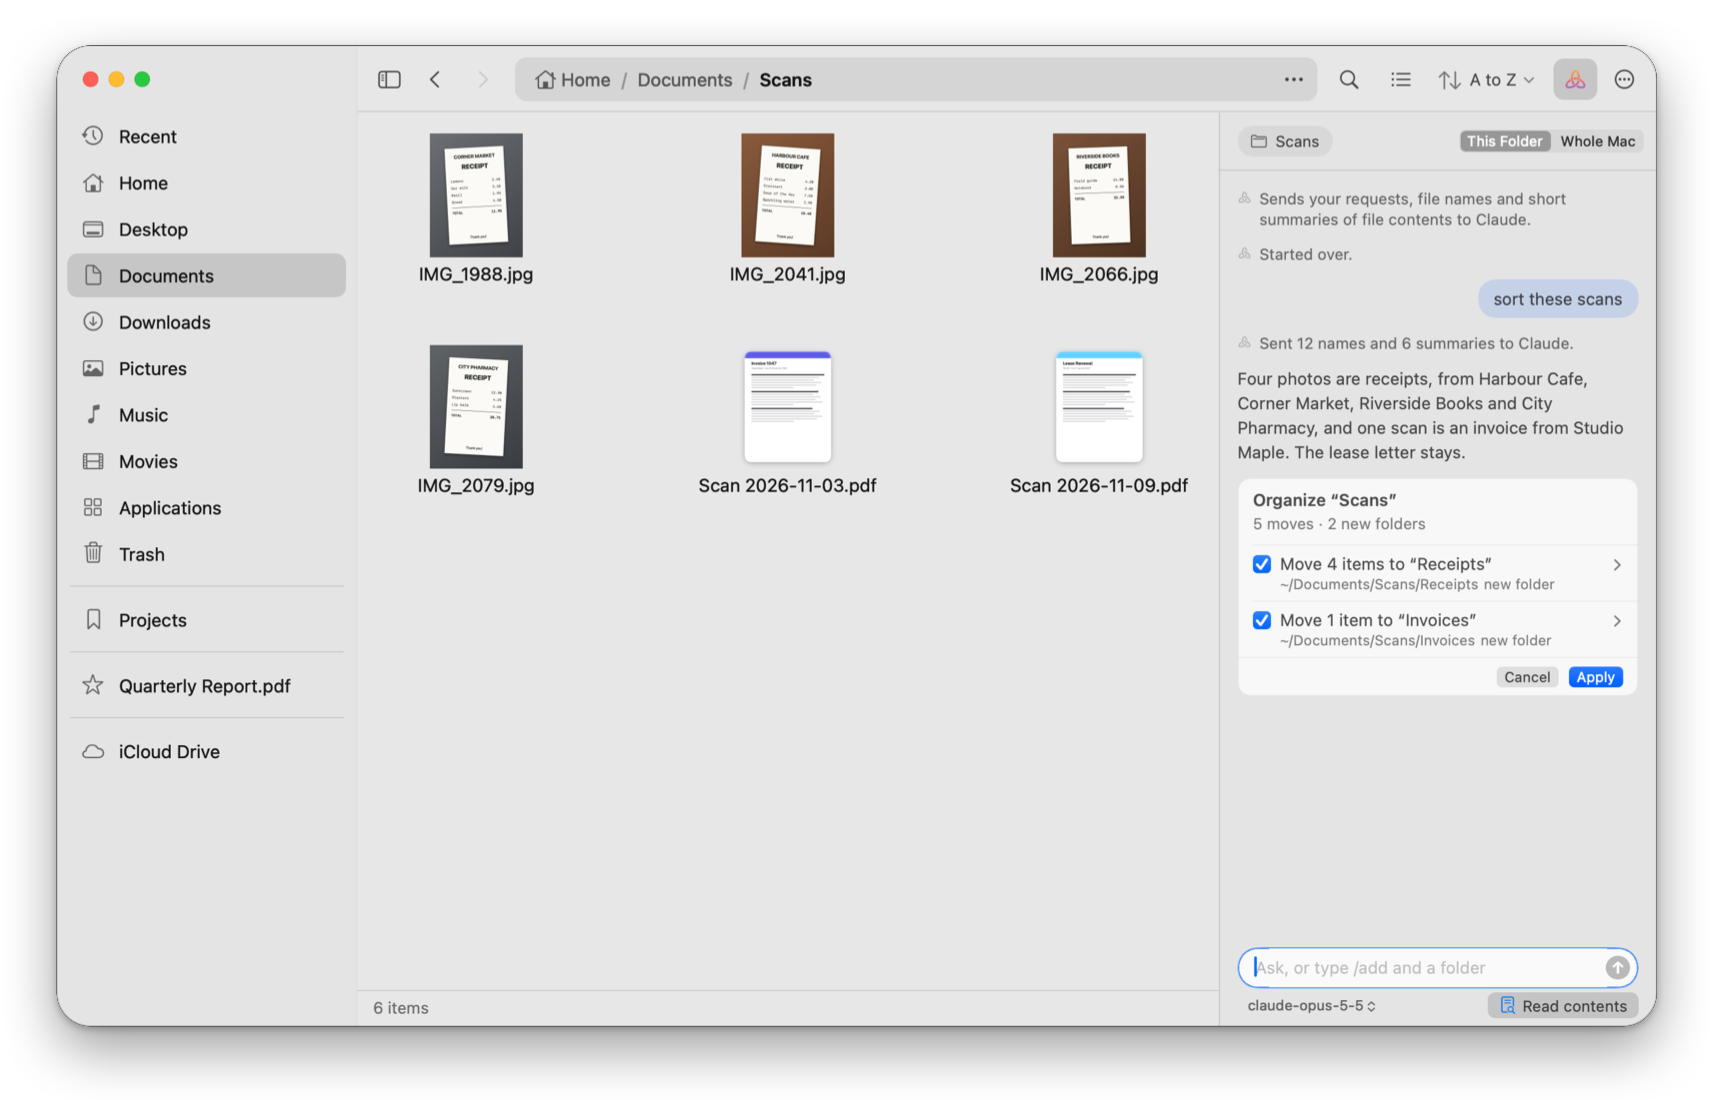
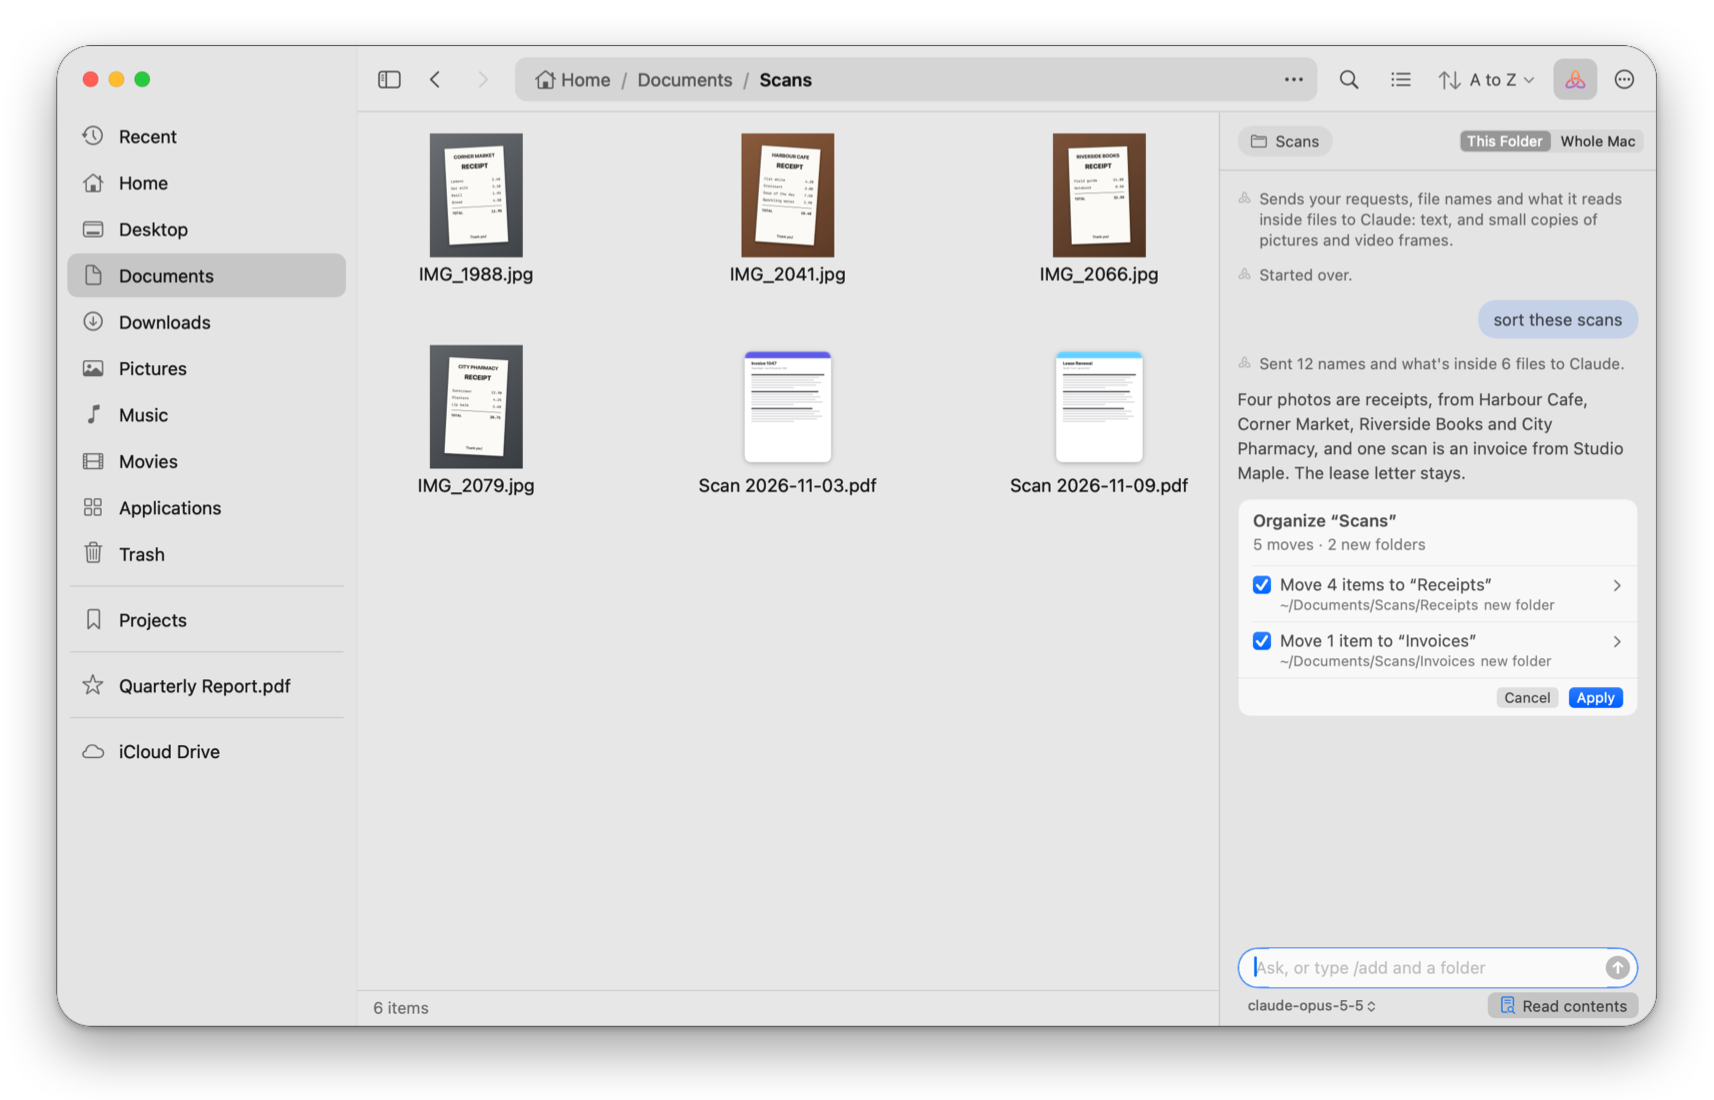
README: AI search finds the receipts from places to eat by what the model sees, and the pictures show the new consent lines and the kind row

Changed region(s): [[0.7112, 0.2473, 0.9586, 0.6491], [0.7112, 0.1545, 0.9586, 0.2782]]

diff --git a/README.md b/README.md
@@ -50,18 +50,18 @@ Names don't always say what a file is. Turn on **Read contents** under the compo
 
 <picture>
   <source media="(prefers-color-scheme: dark)" srcset="docs/images/ai-contents-dark.png">
-  <img src="docs/images/ai-contents-light.png" alt="Documents › Scans in the grid: four receipt photos named IMG_1988.jpg, IMG_2041.jpg, IMG_2066.jpg and IMG_2079.jpg, and two scanned PDFs. In the AI panel Read contents is on, and the first line says it sends your requests, file names and short summaries of file contents to Claude. After Sent 12 names and 6 summaries to Claude, the reply names the four receipts and the invoice, and the plan moves 4 items to a new Receipts folder and 1 to a new Invoices folder">
+  <img src="docs/images/ai-contents-light.png" alt="Documents › Scans in the grid: four receipt photos named IMG_1988.jpg, IMG_2041.jpg, IMG_2066.jpg and IMG_2079.jpg, and two scanned PDFs. In the AI panel Read contents is on, and the first line says it sends your requests, file names and what it reads inside files to Claude: text, and small copies of pictures and video frames. After Sent 12 names and what's inside 6 files to Claude, the reply names the four receipts and the invoice, and the plan moves 4 items to a new Receipts folder and 1 to a new Invoices folder">
 </picture>
 
 ### Find with AI
 
 Turn on the trefoil in the search field and describe the file. The model plans the searches, Helm runs them on your Mac, and the status bar says how it read your words. Point at a result to see why it matched.
 
-The row under the header keeps a search to one kind: Photo, Video, Document, Folder, Code, Audio or Archive. Turn on **Read contents** at the end of the row and the model also looks at up to 48 photos, videos and documents and says which match. Across the whole Mac it looks only at files the search or Apple's on-device recognition matched; in a folder, also at the newest that fit the rest of your words. So "the photo of the receipt from the Italian place" finds it by what it shows, whatever its name, and pointing at it says what the model saw.
+The row under the header keeps a search to one kind: Photo, Video, Document, Folder, Code, Audio or Archive. Turn on **Read contents** at the end of the row and the model also looks at up to 48 photos, videos and documents and says which match. Across the whole Mac it looks only at files the search or Apple's on-device recognition matched; in a folder, also at the newest that fit the rest of your words. So "a receipt from somewhere I ate" finds the café's and the deli's among six receipts, by what they show, whatever their names, and pointing at one says what the model saw.
 
 <picture>
   <source media="(prefers-color-scheme: dark)" srcset="docs/images/ai-search-dark.png">
-  <img src="docs/images/ai-search-light.png" alt="AI search from Home for the photo of the receipt, with Photo chosen in the kind row and Read contents on: six receipt photos, IMG_2110.jpg, IMG_2102.jpg, IMG_2041.jpg, IMG_2066.jpg, IMG_2079.jpg and IMG_1988.jpg, and the status bar reading 6 matches, Mentions “receipt”, Photos">
+  <img src="docs/images/ai-search-light.png" alt="AI search from Home for a receipt from somewhere I ate, with Photo chosen in the kind row and Read contents on: two receipt photos, IMG_2110.jpg from a deli and IMG_2041.jpg from a café, and the status bar reading 2 matches, Mentions “receipt”, Photos, Looked at 34">
 </picture>
 
 ## How it works
@@ -87,7 +87,7 @@ AI mode is off until you turn it on. The onboarding's AI Mode step and Settings 
 | LM Studio | Turn on LM Studio's [local server](https://lmstudio.ai/docs/developer/core/server) and load a model. **Refresh Models** in Settings › AI picks up one loaded later |
 | Other | Type the service's https address, and its key if it needs one |
 
-<p align="center"><img src="docs/images/settings-ai-light.png" width="560" alt="Settings, AI pane: AI mode on, the line Sends your requests and file names to Claude, never file contents, Provider Claude with its info button and How to connect, Key saved in your Mac's keychain with Remove Key and Connected, and the model menu with Refresh"></p>
+<p align="center"><img src="docs/images/settings-ai-light.png" width="560" alt="Settings, AI pane: AI mode on, the line Sends your requests and file names to Claude; file contents only while Read contents is on. Helm has no servers and collects nothing. Then Provider Claude with its info button and How to connect, Key saved in your Mac's keychain with Remove Key and Connected, and the model menu with Refresh"></p>
 
 ## Privacy
 
@@ -177,7 +177,7 @@ Helm is an early preview for macOS 14 Sonoma or later, on Apple silicon or Intel
 
 <p align="center">
   <img src="docs/images/onboarding-access-light.png" width="49%" alt="The onboarding's Full Disk Access step, step 2 of 5: Full Disk Access is off, Without it, macOS asks about Desktop, Documents and Downloads, the Open System Settings button, and the note that macOS will ask to quit and reopen Helm and setup continues after. Back and Continue">
-  <img src="docs/images/onboarding-ai-light.png" width="49%" alt="The onboarding's AI Mode step, step 4 of 5: the trefoil over the title AI Mode, the AI mode switch on, Provider OpenAI with its info button and How to connect, Continue with ChatGPT, Use an API key instead, and the line Sends your requests and file names to OpenAI, never file contents. Back, Not Now and Continue">
+  <img src="docs/images/onboarding-ai-light.png" width="49%" alt="The onboarding's AI Mode step, step 4 of 5: the trefoil over the title AI Mode, the AI mode switch on, Provider OpenAI with its info button and How to connect, Continue with ChatGPT, Use an API key instead, and the line Sends your requests and file names to OpenAI; file contents only while Read contents is on. Helm has no servers and collects nothing. Back, Not Now and Continue">
 </p>
 
 Helm is signed ad hoc, so macOS treats each new version as a new app. After an update, open it as in step 4 again, and turn Full Disk Access back on: remove Helm from the list with − and add it back with +.
@@ -227,7 +227,7 @@ In the list, a folder unfolds right where it is, with a short, smooth animation,
 
 Press ⌘F and type. Helm looks in the folder you're in, or across the whole Mac, matching names first and then what's inside files. The row under the header keeps a search to one kind, such as Photo or Document, and the status bar names it. Click anywhere else and the keys go back to your files: an empty search closes, and one with words keeps its results until you go somewhere else. Each tab keeps its own search.
 
-<img src="docs/images/search-dark.png" alt="Searching Home for invoice, with the results in the grid">
+<img src="docs/images/search-dark.png" alt="Searching Home for invoice, with the kind row under the header at Any, and the results in the grid">
 
 ### Your sidebar, your way
 
